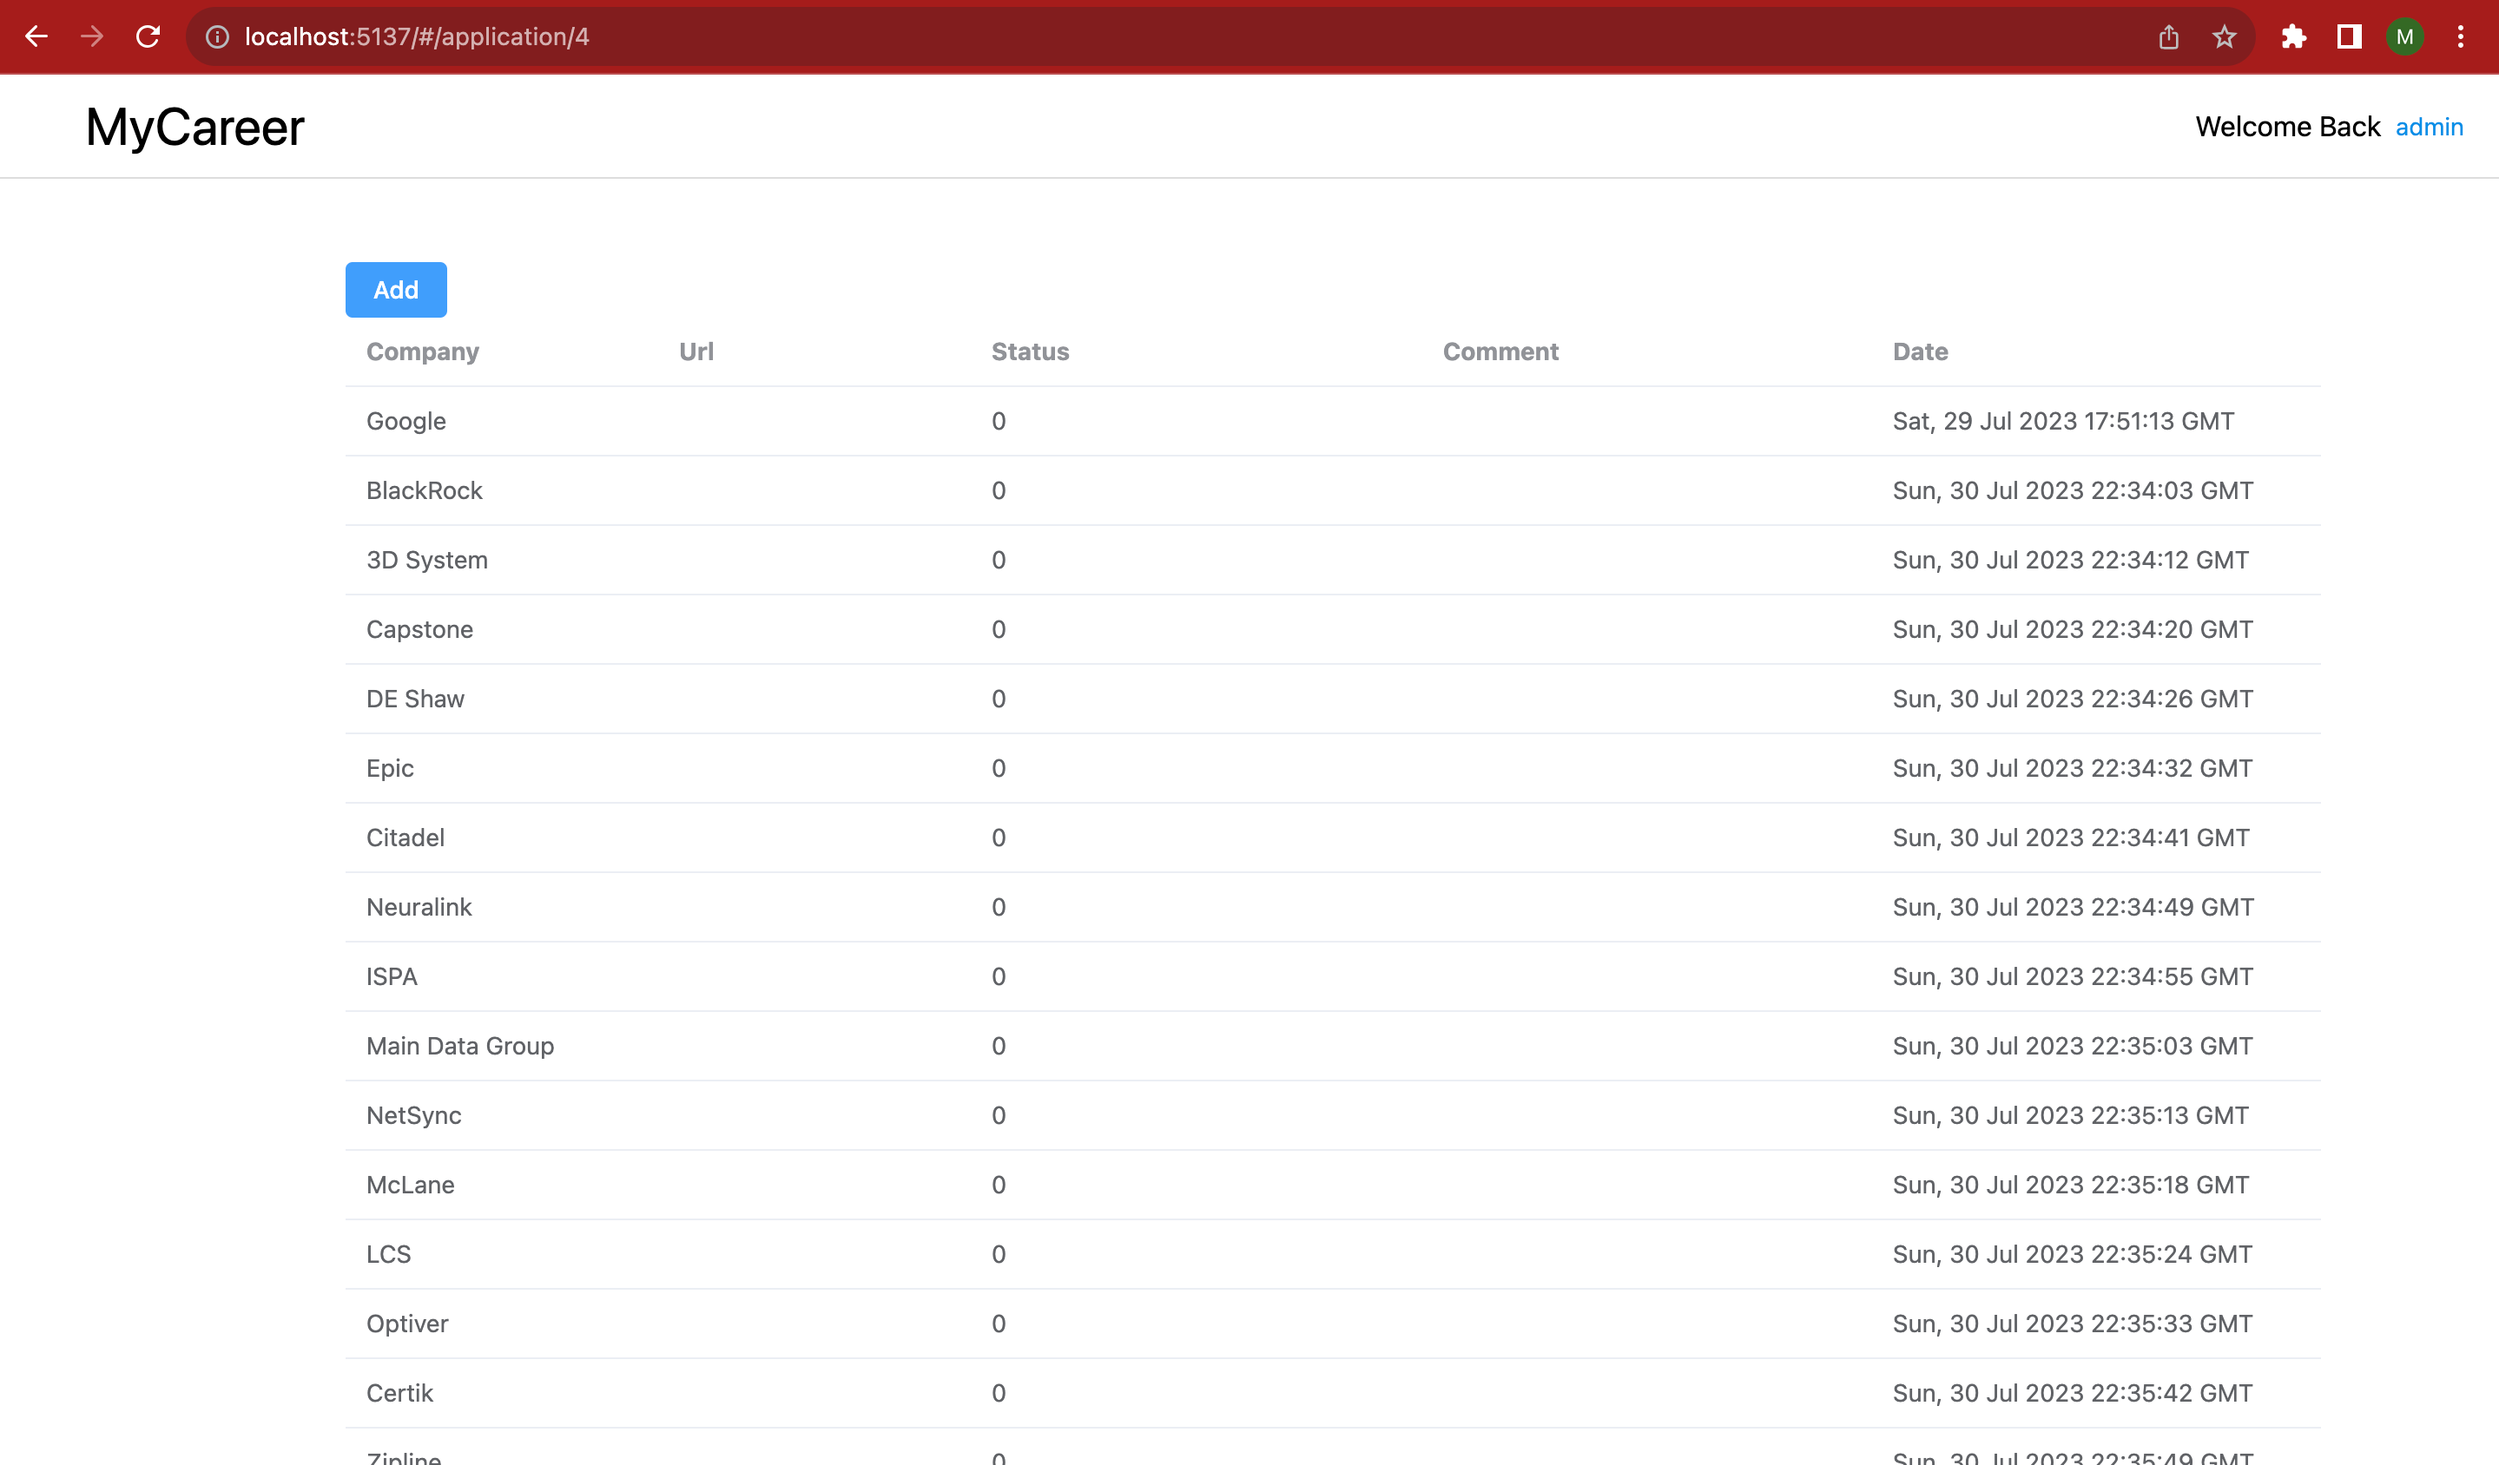
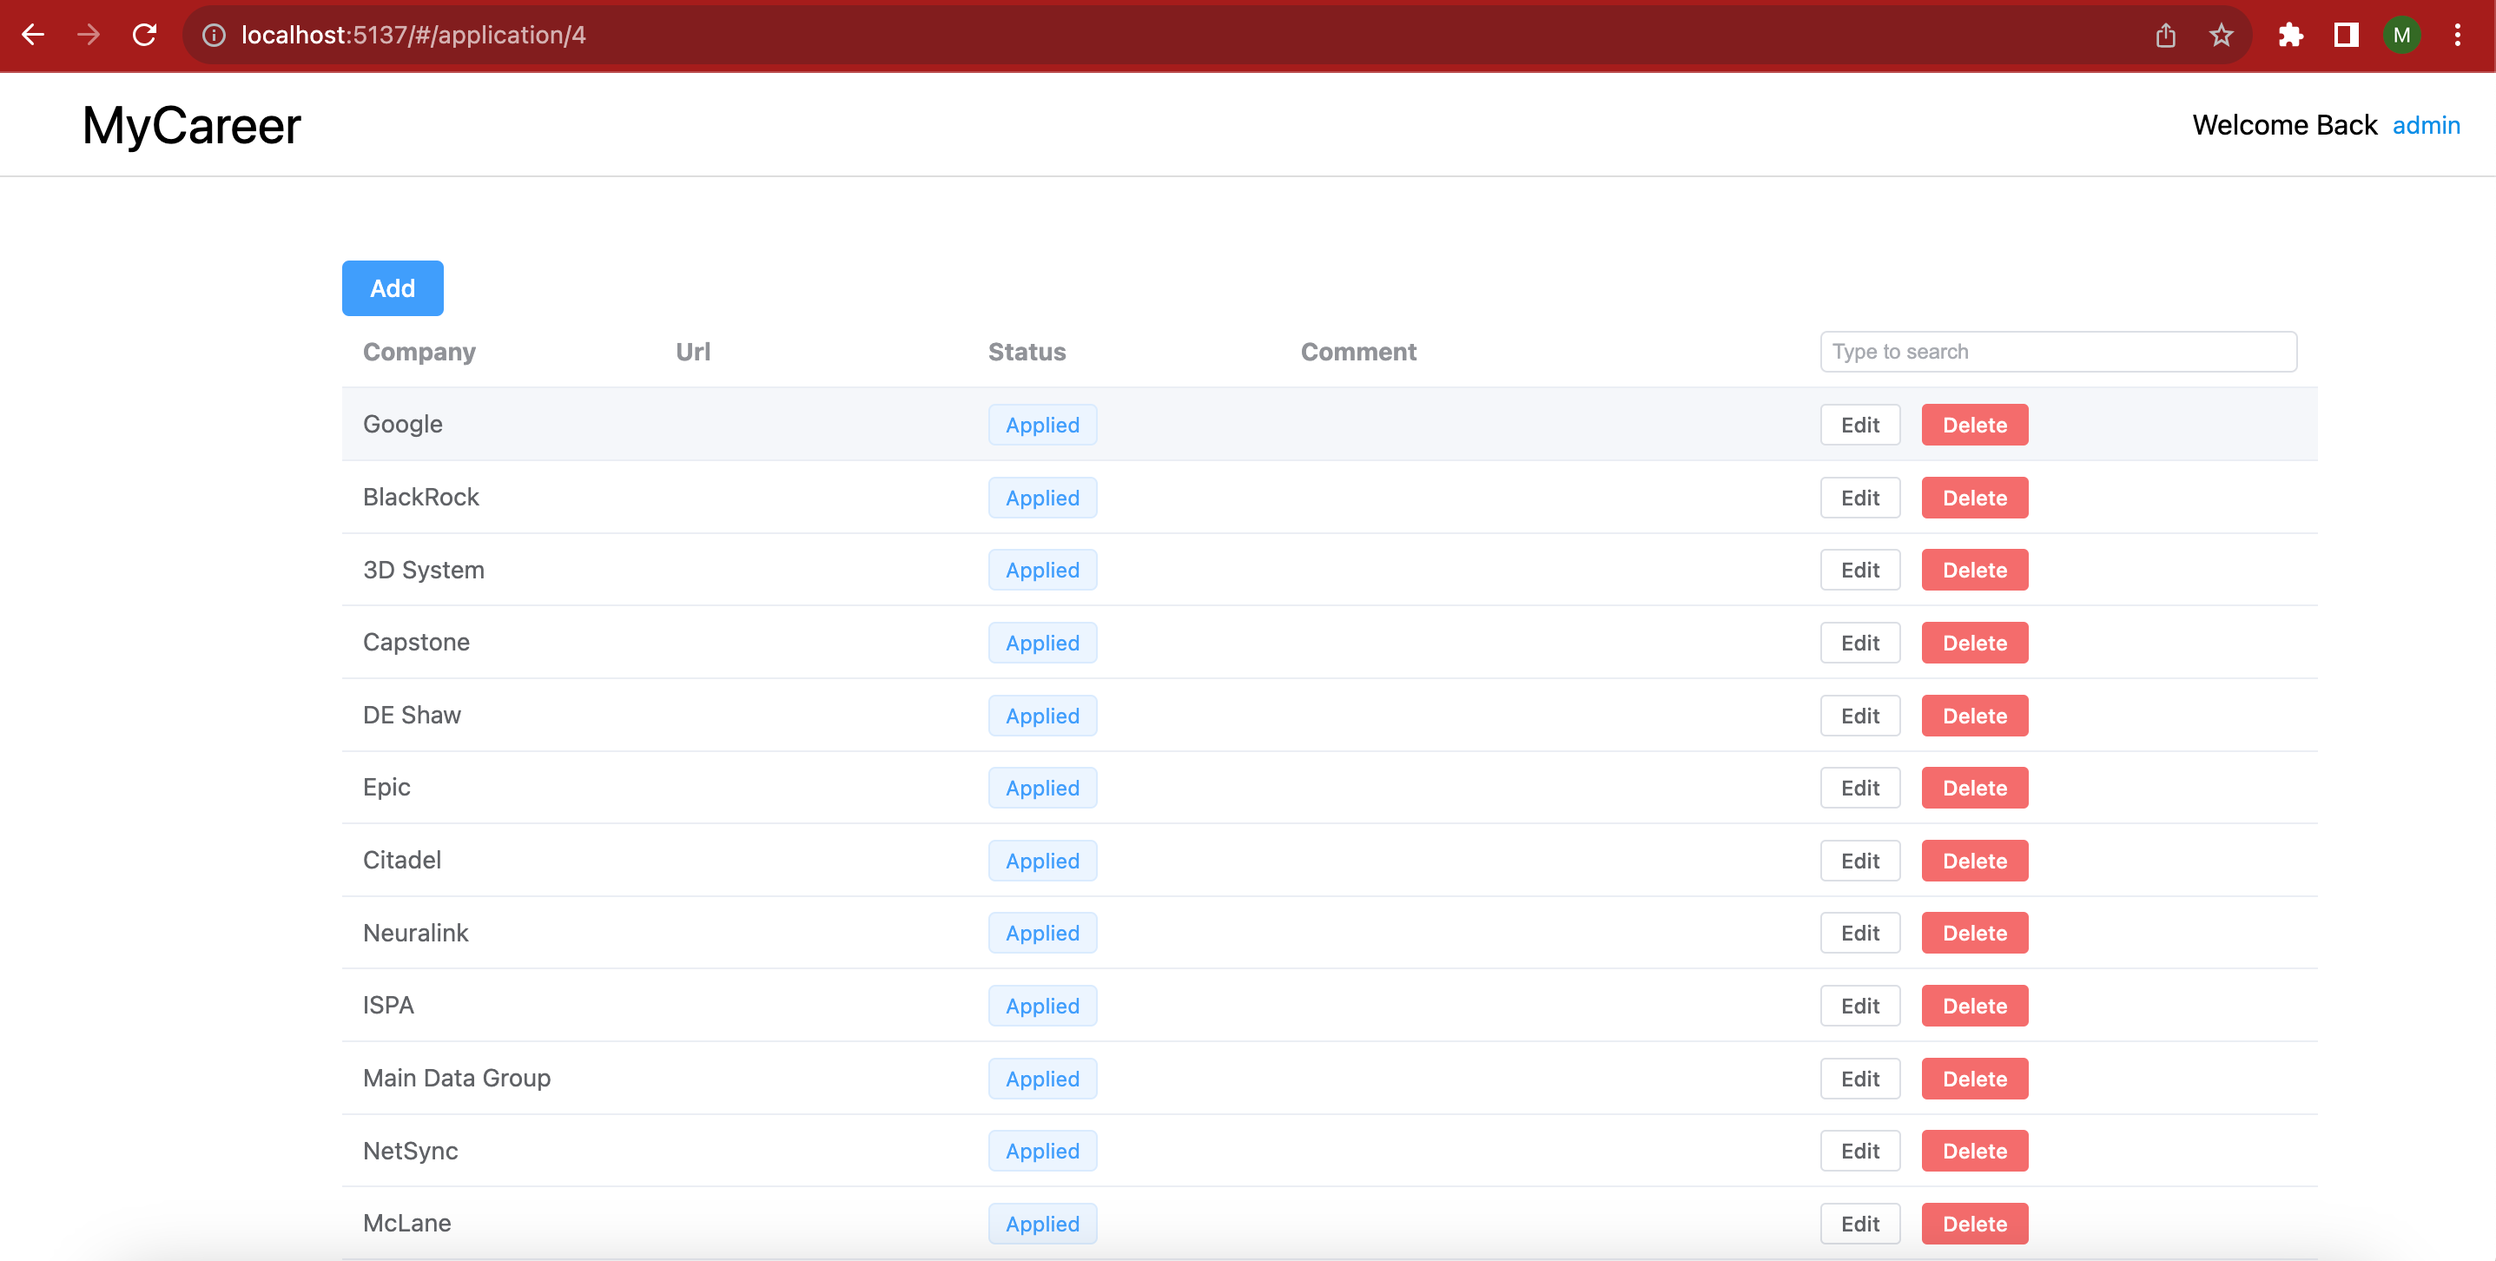
handle app edit

diff --git a/src/views/application.vue b/src/views/application.vue
@@ -9,23 +9,21 @@
             <el-table-column
                 prop="status"
                 label="Status"
-                width="180"
-                :filters="[
-                    { text: 'Planned', value: '-1' },
-                    { text: 'Applied', value: '0' },
-                    { text: 'Accepted', value: '1' },
-                    { text: 'Rejected', value: '2' },
-                ]"
-                :filter-method="filterTag"
-                filter-placement="bottom-end"
-                >
+                width="180">
                 <template #default="scope">
                     <el-tag :type="getStatusType(scope.row.status)" disable-transitions>{{ get_status(scope.row.status) }}</el-tag>
                 </template>
             </el-table-column>
-            <!-- <el-table-column prop="status"  label="Status"></el-table-column> -->
             <el-table-column prop="comment" label="Comment" />
-            <el-table-column prop="created_time" label="Date" />
+            <el-table-column>
+                <template #header>
+                    <el-input v-model="search" size="small" placeholder="Type to search" />
+                </template>
+                <template #default="scope">
+                    <el-button size="small" @click="handleEdit(scope.row.id)">Edit</el-button>
+                    <el-button size="small" type="danger" @click="handleDelete(scope.row.id)">Delete</el-button>
+                </template>
+            </el-table-column>
         </el-table>
     </div>
     <el-dialog v-model="addAppVisible" title="Add New Application" width="30%" center>
@@ -44,7 +42,7 @@
 <script setup>
 import Header from '~/layout/header.vue'
 import { reactive, ref } from "vue"
-import { getAllApplication, createApplication } from '~/api/application'
+import { getAllApplication, createApplication, deleteApplication} from '~/api/application'
 import { notify } from '../composables/util'
 
 
@@ -53,6 +51,7 @@ const addAppVisible = ref(false)
 const company = ref('')
 const url = ref('')
 const comment = ref('')
+const search = ref('')
 
 
 getAllApplication()
@@ -65,7 +64,10 @@ const goAddApp = () => {
     .then(res => {
         notify("Application added")
         addAppVisible.value = false;
-        window.location.reload()
+        getAllApplication()
+        .then(res => {
+            application_list.value = res.data
+        })
     })
 }
 
@@ -80,6 +82,20 @@ const getStatusType = (status) => {
     if(status === 2) return 'error'
     else if(status === 1) return 'success'
     else return ''
+}
+
+const handleEdit = (id) => {
+  console.log(id)
+}
+const handleDelete = (id) => {
+    deleteApplication(id)
+    .then(res => {
+        notify("Deleted")
+        getAllApplication()
+        .then(res => {
+            application_list.value = res.data
+        })
+    })
 }
 
 
